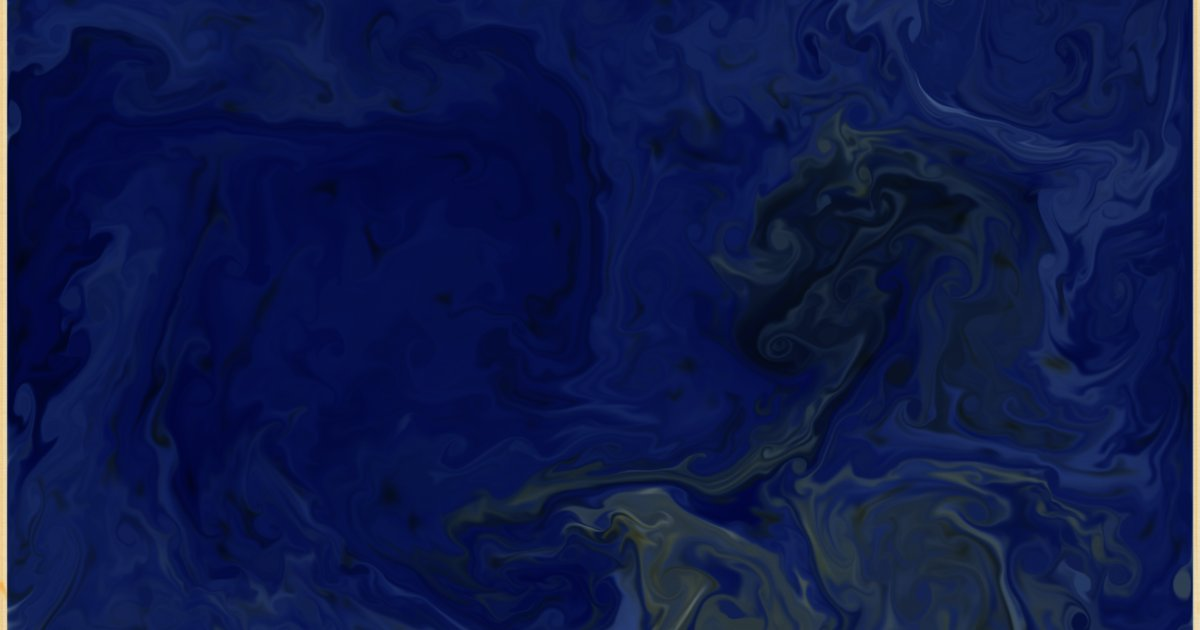
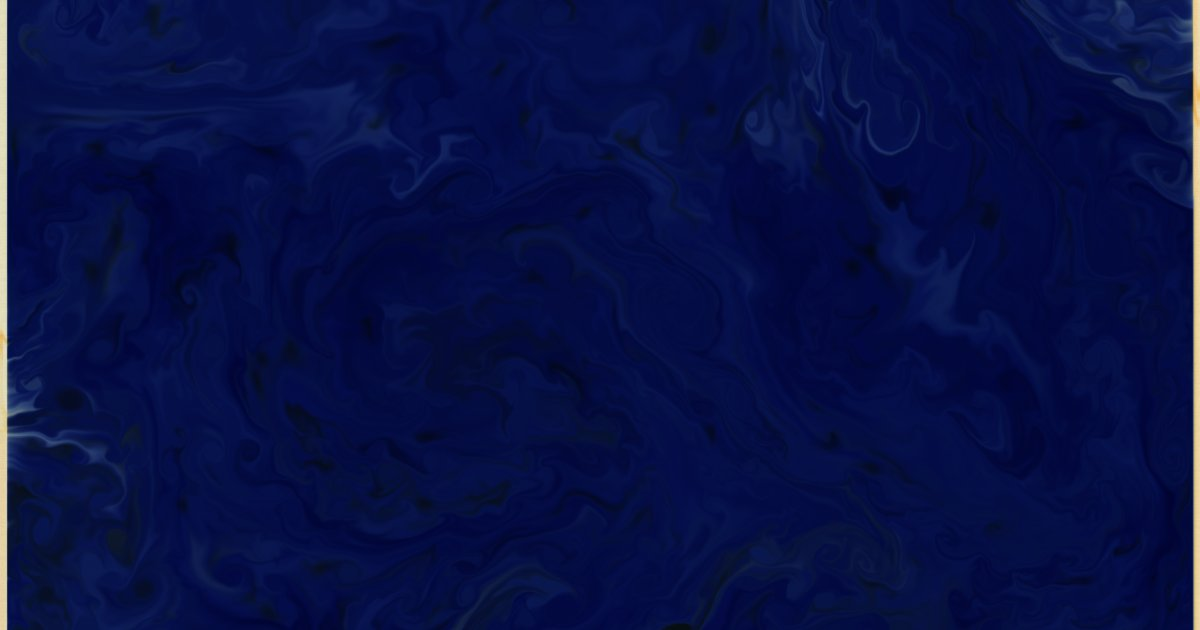
sheets 2026-11-26

diff --git a/site/sheets/index.html b/site/sheets/index.html
@@ -1,6 +1,6 @@
 <!DOCTYPE html><html lang="en-GB"><head><meta charset="utf-8"><meta name="viewport" content="width=device-width,initial-scale=1">
 <title>Sheets · æsthetoica</title><meta name="description" content="Every marbled sheet pulled from the tray, one a day, numbered on from Thomasin Gale&#x27;s first in 1823.">
-<link rel="canonical" href="https://aesthetoica.com/sheets/"><meta property="og:type" content="website"><meta property="og:site_name" content="æsthetoica"><meta property="og:locale" content="en_GB"><meta property="og:url" content="https://aesthetoica.com/sheets/"><meta property="og:title" content="Sheets · æsthetoica"><meta property="og:description" content="Every marbled sheet pulled from the tray, one a day, numbered on from Thomasin Gale&#x27;s first in 1823."><meta property="og:image" content="https://aesthetoica.com/sheets/74138/og.jpg"><meta property="og:image:width" content="1200"><meta property="og:image:height" content="630"><meta property="og:image:alt" content="A marbled sheet"><meta name="twitter:card" content="summary_large_image"><meta name="twitter:title" content="Sheets · æsthetoica"><meta name="twitter:description" content="Every marbled sheet pulled from the tray, one a day, numbered on from Thomasin Gale&#x27;s first in 1823."><meta name="twitter:image" content="https://aesthetoica.com/sheets/74138/og.jpg">
+<link rel="canonical" href="https://aesthetoica.com/sheets/"><meta property="og:type" content="website"><meta property="og:site_name" content="æsthetoica"><meta property="og:locale" content="en_GB"><meta property="og:url" content="https://aesthetoica.com/sheets/"><meta property="og:title" content="Sheets · æsthetoica"><meta property="og:description" content="Every marbled sheet pulled from the tray, one a day, numbered on from Thomasin Gale&#x27;s first in 1823."><meta property="og:image" content="https://aesthetoica.com/sheets/74139/og.jpg"><meta property="og:image:width" content="1200"><meta property="og:image:height" content="630"><meta property="og:image:alt" content="A marbled sheet"><meta name="twitter:card" content="summary_large_image"><meta name="twitter:title" content="Sheets · æsthetoica"><meta name="twitter:description" content="Every marbled sheet pulled from the tray, one a day, numbered on from Thomasin Gale&#x27;s first in 1823."><meta name="twitter:image" content="https://aesthetoica.com/sheets/74139/og.jpg">
 <link rel="icon" href="/favicon.ico" sizes="any"><link rel="icon" href="/favicon.svg" type="image/svg+xml"><link rel="apple-touch-icon" href="/apple-touch-icon.png"><link rel="manifest" href="/site.webmanifest"><meta name="theme-color" content="#1f1b18"><link rel="preconnect" href="https://fonts.googleapis.com"><link rel="preconnect" href="https://fonts.gstatic.com" crossorigin><link href="https://fonts.googleapis.com/css2?family=IM+Fell+Double+Pica&family=IM+Fell+English:ital@0;1&family=IM+Fell+English+SC&family=Mrs+Saint+Delafield&display=swap" rel="stylesheet"><style>*{box-sizing:border-box;margin:0;padding:0}body{background:#1f1b18;color:#d8cdb8;font-family:'IM Fell English',Georgia,serif;min-height:100vh}
 a{color:inherit;text-underline-offset:3px}.top{display:flex;justify-content:space-between;align-items:flex-end;padding:22px 5vw 18px}
 .wm{font-family:'IM Fell Double Pica',serif;font-size:44px;color:#efe4cf;text-decoration:none}.nav{font-size:16px;color:#bfb29b}.nav a{margin-left:16px}
@@ -13,8 +13,9 @@ a{color:inherit;text-underline-offset:3px}.top{display:flex;justify-content:spac
 .grid{display:grid;grid-template-columns:repeat(auto-fill,minmax(250px,1fr));gap:28px 26px;padding:10px 5vw 60px}.card{text-decoration:none;color:inherit}
 .card img{width:100%;aspect-ratio:3/2;object-fit:cover;display:block;box-shadow:0 4px 10px rgba(0,0,0,.5)}.card .no{margin-top:10px;font-size:18px;color:#efe4cf}.card .dd{font-style:italic;font-size:14.5px;color:#a99c86}
 .card .ln{font-family:'Mrs Saint Delafield',cursive;font-size:24px;line-height:1.05;color:#c9d2ea;margin-top:4px}
-h1.ar{font-family:'IM Fell Double Pica',serif;font-weight:400;font-size:40px;padding:0 5vw;color:#efe4cf}.sub{font-style:italic;color:#a99c86;padding:4px 5vw 18px}</style><script type="application/ld+json">{"@context": "https://schema.org", "@graph": [{"@type": "CollectionPage", "@id": "https://aesthetoica.com/sheets/", "url": "https://aesthetoica.com/sheets/", "name": "Sheets", "description": "Every marbled sheet pulled from the tray, one a day, numbered on from Thomasin Gale's first in 1823.", "isPartOf": {"@id": "https://aesthetoica.com/#website"}, "creator": {"@id": "https://andy.fm/#andy"}, "hasPart": [{"@type": "VisualArtwork", "name": "Sheet No. 74,138", "url": "https://aesthetoica.com/sheets/74138/", "dateCreated": "2026-11-25"}, {"@type": "VisualArtwork", "name": "Sheet No. 74,137", "url": "https://aesthetoica.com/sheets/74137/", "dateCreated": "2026-11-24"}, {"@type": "VisualArtwork", "name": "Sheet No. 74,136", "url": "https://aesthetoica.com/sheets/74136/", "dateCreated": "2026-11-23"}, {"@type": "VisualArtwork", "name": "Sheet No. 74,135", "url": "https://aesthetoica.com/sheets/74135/", "dateCreated": "2026-11-22"}, {"@type": "VisualArtwork", "name": "Sheet No. 74,134", "url": "https://aesthetoica.com/sheets/74134/", "dateCreated": "2026-11-21"}, {"@type": "VisualArtwork", "name": "Sheet No. 74,133", "url": "https://aesthetoica.com/sheets/74133/", "dateCreated": "2026-11-20"}, {"@type": "VisualArtwork", "name": "Sheet No. 74,132", "url": "https://aesthetoica.com/sheets/74132/", "dateCreated": "2026-11-19"}, {"@type": "VisualArtwork", "name": "Sheet No. 74,131", "url": "https://aesthetoica.com/sheets/74131/", "dateCreated": "2026-11-18"}, {"@type": "VisualArtwork", "name": "Sheet No. 74,130", "url": "https://aesthetoica.com/sheets/74130/", "dateCreated": "2026-11-17"}]}, {"@type": "Person", "@id": "https://andy.fm/#andy", "name": "Andy Killworth", "url": "https://andy.fm/", "sameAs": ["https://www.linkedin.com/in/andy-killworth/", "https://andy.fm/"]}]}</script></head><body><div class="top"><a class="wm" href="/">æsthetoica</a><div class="nav"><a href="/">Today’s tray</a><a href="/#on-the-word">On the word</a><a href="/about/">About</a></div></div>
-<h1 class="ar">Sheets</h1><div class="sub">Pulled at midnight, one a day. Numbered on from Thomasin Gale’s first, 3 December 1823.</div><div class="grid"><a class="card" href="/sheets/74138/"><img src="/sheets/74138/sheet.jpg" alt="Sheet No. 74,138" loading="lazy"><div class="no">Sheet No. 74,138</div><div class="dd">25 November 2026</div><div class="ln">Blue drops, eleven hundred and three, one at a time. Green slow, no red lines but three faint specks.</div></a>
+h1.ar{font-family:'IM Fell Double Pica',serif;font-weight:400;font-size:40px;padding:0 5vw;color:#efe4cf}.sub{font-style:italic;color:#a99c86;padding:4px 5vw 18px}</style><script type="application/ld+json">{"@context": "https://schema.org", "@graph": [{"@type": "CollectionPage", "@id": "https://aesthetoica.com/sheets/", "url": "https://aesthetoica.com/sheets/", "name": "Sheets", "description": "Every marbled sheet pulled from the tray, one a day, numbered on from Thomasin Gale's first in 1823.", "isPartOf": {"@id": "https://aesthetoica.com/#website"}, "creator": {"@id": "https://andy.fm/#andy"}, "hasPart": [{"@type": "VisualArtwork", "name": "Sheet No. 74,139", "url": "https://aesthetoica.com/sheets/74139/", "dateCreated": "2026-11-26"}, {"@type": "VisualArtwork", "name": "Sheet No. 74,138", "url": "https://aesthetoica.com/sheets/74138/", "dateCreated": "2026-11-25"}, {"@type": "VisualArtwork", "name": "Sheet No. 74,137", "url": "https://aesthetoica.com/sheets/74137/", "dateCreated": "2026-11-24"}, {"@type": "VisualArtwork", "name": "Sheet No. 74,136", "url": "https://aesthetoica.com/sheets/74136/", "dateCreated": "2026-11-23"}, {"@type": "VisualArtwork", "name": "Sheet No. 74,135", "url": "https://aesthetoica.com/sheets/74135/", "dateCreated": "2026-11-22"}, {"@type": "VisualArtwork", "name": "Sheet No. 74,134", "url": "https://aesthetoica.com/sheets/74134/", "dateCreated": "2026-11-21"}, {"@type": "VisualArtwork", "name": "Sheet No. 74,133", "url": "https://aesthetoica.com/sheets/74133/", "dateCreated": "2026-11-20"}, {"@type": "VisualArtwork", "name": "Sheet No. 74,132", "url": "https://aesthetoica.com/sheets/74132/", "dateCreated": "2026-11-19"}, {"@type": "VisualArtwork", "name": "Sheet No. 74,131", "url": "https://aesthetoica.com/sheets/74131/", "dateCreated": "2026-11-18"}, {"@type": "VisualArtwork", "name": "Sheet No. 74,130", "url": "https://aesthetoica.com/sheets/74130/", "dateCreated": "2026-11-17"}]}, {"@type": "Person", "@id": "https://andy.fm/#andy", "name": "Andy Killworth", "url": "https://andy.fm/", "sameAs": ["https://www.linkedin.com/in/andy-killworth/", "https://andy.fm/"]}]}</script></head><body><div class="top"><a class="wm" href="/">æsthetoica</a><div class="nav"><a href="/">Today’s tray</a><a href="/#on-the-word">On the word</a><a href="/about/">About</a></div></div>
+<h1 class="ar">Sheets</h1><div class="sub">Pulled at midnight, one a day. Numbered on from Thomasin Gale’s first, 3 December 1823.</div><div class="grid"><a class="card" href="/sheets/74139/"><img src="/sheets/74139/sheet.jpg" alt="Sheet No. 74,139" loading="lazy"><div class="no">Sheet No. 74,139</div><div class="dd">26 November 2026</div><div class="ln">Blue drops, 1323, one at a time. Green slow, ochre as usual, seven red lines in the night, not combed.</div></a>
+<a class="card" href="/sheets/74138/"><img src="/sheets/74138/sheet.jpg" alt="Sheet No. 74,138" loading="lazy"><div class="no">Sheet No. 74,138</div><div class="dd">25 November 2026</div><div class="ln">Blue drops, eleven hundred and three, one at a time. Green slow, no red lines but three faint specks.</div></a>
 <a class="card" href="/sheets/74137/"><img src="/sheets/74137/sheet.jpg" alt="Sheet No. 74,137" loading="lazy"><div class="no">Sheet No. 74,137</div><div class="dd">24 November 2026</div><div class="ln">Ochre as usual, green steady. One red line at one o&#x27;clock, and blue drops over eleven hundred. Not combed.</div></a>
 <a class="card" href="/sheets/74136/"><img src="/sheets/74136/sheet.jpg" alt="Sheet No. 74,136" loading="lazy"><div class="no">Sheet No. 74,136</div><div class="dd">23 November 2026</div><div class="ln">Ochre usual, green slow, eighteen red lines in the small hours. Blue drops 1460, one at a time. Not combed.</div></a>
 <a class="card" href="/sheets/74135/"><img src="/sheets/74135/sheet.jpg" alt="Sheet No. 74,135" loading="lazy"><div class="no">Sheet No. 74,135</div><div class="dd">22 November 2026</div><div class="ln">Blue drops 1352, one at a time. Red lines thirteen, all in the small hours. Green slow, ochre as usual.</div></a>

diff --git a/site/sheets/74139/index.html b/site/sheets/74139/index.html
@@ -1,0 +1,26 @@
+<!DOCTYPE html><html lang="en-GB"><head><meta charset="utf-8"><meta name="viewport" content="width=device-width,initial-scale=1">
+<title>Sheet No. 74,139 · 26 November 2026 · æsthetoica</title><meta name="description" content="Blue drops, 1323, one at a time. Green slow, ochre as usual, seven red lines in the night, not combed. The marbled sheet for 26 November 2026, made from cosmic rays, the magnetic field, meteors and other things that passed Lyme Regis unseen.">
+<link rel="canonical" href="https://aesthetoica.com/sheets/74139/"><meta property="og:type" content="article"><meta property="og:site_name" content="æsthetoica"><meta property="og:locale" content="en_GB"><meta property="og:url" content="https://aesthetoica.com/sheets/74139/"><meta property="og:title" content="Sheet No. 74,139 · 26 November 2026 · æsthetoica"><meta property="og:description" content="Blue drops, 1323, one at a time. Green slow, ochre as usual, seven red lines in the night, not combed. The marbled sheet for 26 November 2026, made from cosmic rays, the magnetic field, meteors and other things that passed Lyme Regis unseen."><meta property="og:image" content="https://aesthetoica.com/sheets/74139/og.jpg"><meta property="og:image:width" content="1200"><meta property="og:image:height" content="630"><meta property="og:image:alt" content="Marbled sheet No. 74,139, 26 November 2026"><meta name="twitter:card" content="summary_large_image"><meta name="twitter:title" content="Sheet No. 74,139 · 26 November 2026 · æsthetoica"><meta name="twitter:description" content="Blue drops, 1323, one at a time. Green slow, ochre as usual, seven red lines in the night, not combed. The marbled sheet for 26 November 2026, made from cosmic rays, the magnetic field, meteors and other things that passed Lyme Regis unseen."><meta name="twitter:image" content="https://aesthetoica.com/sheets/74139/og.jpg">
+<link rel="icon" href="/favicon.ico" sizes="any"><link rel="icon" href="/favicon.svg" type="image/svg+xml"><link rel="apple-touch-icon" href="/apple-touch-icon.png"><link rel="manifest" href="/site.webmanifest"><meta name="theme-color" content="#1f1b18">
+<link rel="preconnect" href="https://fonts.googleapis.com"><link rel="preconnect" href="https://fonts.gstatic.com" crossorigin><link href="https://fonts.googleapis.com/css2?family=IM+Fell+Double+Pica&family=IM+Fell+English:ital@0;1&family=IM+Fell+English+SC&family=Mrs+Saint+Delafield&display=swap" rel="stylesheet"><style>*{box-sizing:border-box;margin:0;padding:0}body{background:#1f1b18;color:#d8cdb8;font-family:'IM Fell English',Georgia,serif;min-height:100vh}
+a{color:inherit;text-underline-offset:3px}.top{display:flex;justify-content:space-between;align-items:flex-end;padding:22px 5vw 18px}
+.wm{font-family:'IM Fell Double Pica',serif;font-size:44px;color:#efe4cf;text-decoration:none}.nav{font-size:16px;color:#bfb29b}.nav a{margin-left:16px}
+.leaf{max-width:1100px;margin:0 auto 60px;padding:0 5vw}.sheet{position:relative;box-shadow:0 6px 14px rgba(0,0,0,.55)}.sheet img{display:block;width:100%;height:auto}
+.plate{position:absolute;right:24px;bottom:22px;width:230px;padding:12px 16px 11px;background:#efe6d2;color:#3a2b1f;transform:rotate(-1.2deg);box-shadow:0 1px 2px rgba(60,40,20,.35)}
+.plate .t{font-family:'IM Fell English SC',serif;font-size:15px}.plate .n{font-size:26px;line-height:1.05}.plate .d{font-style:italic;font-size:15px;color:#5a4330}
+.note{background:#f1e9d6;color:#2f241b;margin-top:28px;padding:30px 40px 34px}.ledger{font-family:'Mrs Saint Delafield',cursive;font-size:34px;line-height:1.15;color:#2c3550}
+.note h2{font-family:'IM Fell English SC',serif;font-weight:400;font-size:17px;color:#5a4634;margin:22px 0 8px}.note ul{list-style:none}.note li{font-size:17px;line-height:1.5}.note li b{font-weight:400;color:#6b2a1f}
+.pn{display:flex;justify-content:space-between;margin-top:20px;font-size:16px;color:#bfb29b}
+.grid{display:grid;grid-template-columns:repeat(auto-fill,minmax(250px,1fr));gap:28px 26px;padding:10px 5vw 60px}.card{text-decoration:none;color:inherit}
+.card img{width:100%;aspect-ratio:3/2;object-fit:cover;display:block;box-shadow:0 4px 10px rgba(0,0,0,.5)}.card .no{margin-top:10px;font-size:18px;color:#efe4cf}.card .dd{font-style:italic;font-size:14.5px;color:#a99c86}
+.card .ln{font-family:'Mrs Saint Delafield',cursive;font-size:24px;line-height:1.05;color:#c9d2ea;margin-top:4px}
+h1.ar{font-family:'IM Fell Double Pica',serif;font-weight:400;font-size:40px;padding:0 5vw;color:#efe4cf}.sub{font-style:italic;color:#a99c86;padding:4px 5vw 18px}</style><script type="application/ld+json">{"@context": "https://schema.org", "@graph": [{"@type": "VisualArtwork", "name": "Sheet No. 74,139", "dateCreated": "2026-11-26", "image": "https://aesthetoica.com/sheets/74139/sheet.jpg", "artMedium": "Simulated marbling driven by live data", "artform": "Generative print", "locationCreated": {"@type": "Place", "name": "Lyme Regis, Dorset"}, "isPartOf": {"@type": "Collection", "name": "æsthetoica sheets", "url": "https://aesthetoica.com/sheets/"}, "url": "https://aesthetoica.com/sheets/74139/", "creator": {"@id": "https://andy.fm/#andy"}, "description": "Blue drops, 1323, one at a time. Green slow, ochre as usual, seven red lines in the night, not combed. The marbled sheet for 26 November 2026, made from cosmic rays, the magnetic field, meteors and other things that passed Lyme Regis unseen."}, {"@type": "Person", "@id": "https://andy.fm/#andy", "name": "Andy Killworth", "url": "https://andy.fm/", "sameAs": ["https://www.linkedin.com/in/andy-killworth/", "https://andy.fm/"]}]}</script></head><body>
+<div class="top"><a class="wm" href="/">æsthetoica</a><div class="nav"><a href="/#day-2026-11-26">Open this sheet in the tray</a><a href="/sheets/">All sheets</a><a href="/about/">About</a></div></div>
+<div class="leaf"><div class="sheet"><img src="/sheets/74139/sheet.jpg" alt="Marbled sheet No. 74,139, 26 November 2026" width="1800" height="1200">
+<div class="plate"><div class="t">æsthetoica</div><div class="n">Sheet No. 74,139</div><div class="d">26 November 2026</div><div class="d">Lyme Regis</div><div class="d">Pulled at midnight</div></div></div>
+<div class="note"><div class="ledger">Blue drops, 1323, one at a time. Green slow, ochre as usual, seven red lines in the night, not combed.</div><h2>What fell into the tray</h2><ul><li><b>Ochre</b> cosmic-ray neutrons at Kiel, -0.4% against the usual.</li>
+<li><b>Verdigris</b> the magnetic field at Dourbes reached about Kp 2.</li>
+<li><b>Indigo</b> 1323 edits to obscure Wikipedia articles, among them ‘Draye Redfern (entrepreneur)’, ‘Lois Cowles Harrison’, ‘Holy Ghost Catholic Church (Kula, Hawaii)’.</li>
+<li><b>Carmine</b> 34 meteors within 400 km of Lyme Regis, 7 of them bright.</li>
+<li><b>The rocking</b> the National Grid ran between 49.843 and 50.163 Hz.</li></ul></div>
+<div class="pn"><a href="/sheets/74138/">Sheet No. 74,138</a><span></span></div></div></body></html>

diff --git a/site/sheets/74138/index.html b/site/sheets/74138/index.html
@@ -23,4 +23,4 @@ h1.ar{font-family:'IM Fell Double Pica',serif;font-weight:400;font-size:40px;pad
 <li><b>Indigo</b> 1103 edits to obscure Wikipedia articles, among them ‘Geelong Football Club’, ‘Geelong Football Club’, ‘Battle of Bellevue’.</li>
 <li><b>Carmine</b> 3 meteors within 400 km of Lyme Regis, 0 of them bright, Leonid among them.</li>
 <li><b>The rocking</b> the National Grid ran between 49.871 and 50.154 Hz.</li></ul></div>
-<div class="pn"><a href="/sheets/74137/">Sheet No. 74,137</a><span></span></div></div></body></html>
+<div class="pn"><a href="/sheets/74137/">Sheet No. 74,137</a><a href="/sheets/74139/">Sheet No. 74,139</a></div></div></body></html>
